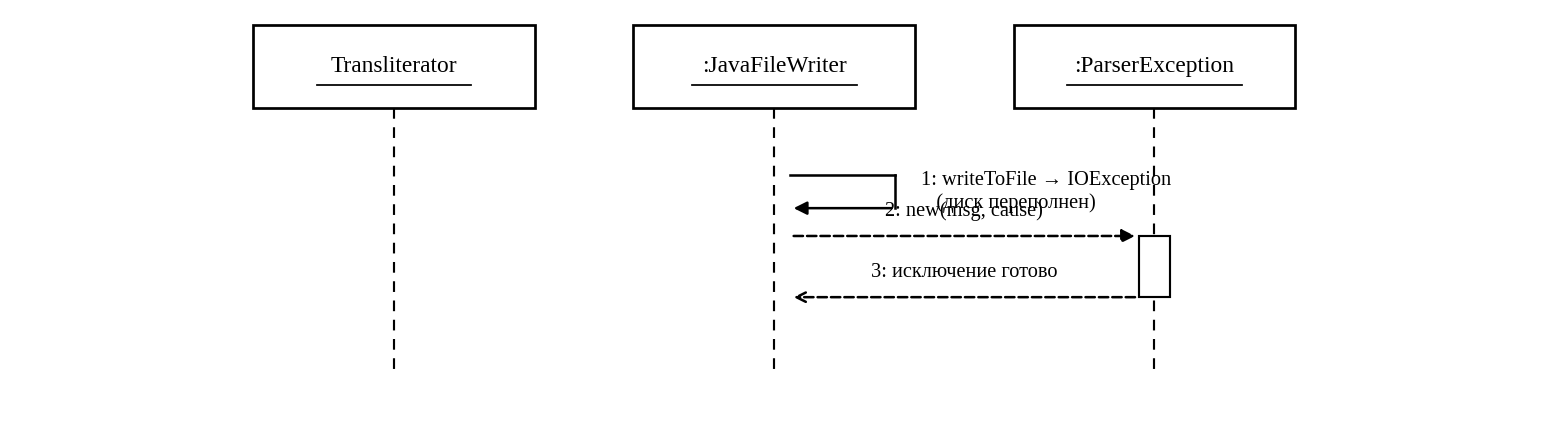
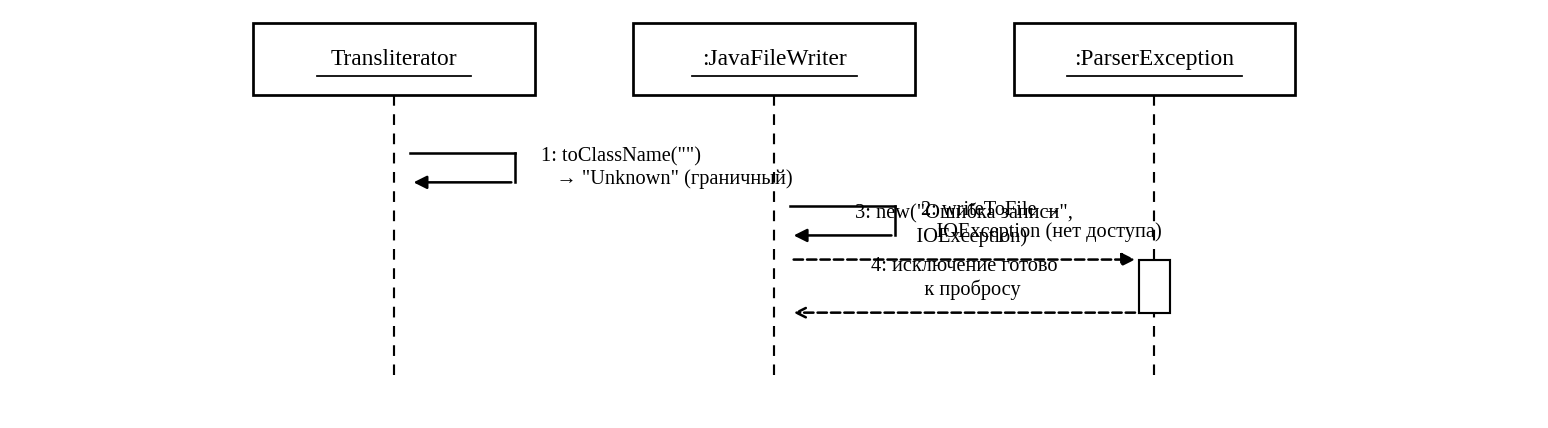
common ДПС: переделаны под реальный API классов
Три сценария используют только Transliterator, JavaFileWriter,
ParserException — без внешних классов из других пакетов.

Соответствие коду:
  • Нормальный — toClassName → writeLine + openBlock + closeBlock
    → writeToFile (Files.createDirectories + write)
  • Прерывание пользователем — Cancel между файлами:
    StringBuilder отбрасывается, writeToFile не вызывается
  • Системное прерывание — IOException в writeToFile →
    new ParserException(msg, cause) → return

Стиль ч/б как у остальных ДПС, шрифт Liberation Serif.

https://claude.ai/code/session_01WPz1fK92QEsvtXEfVLPRQp

diff --git a/diagrams/gen_seq.py b/diagrams/gen_seq.py
@@ -383,23 +383,35 @@ render("seq-data-system-interrupt.png", DATA_OBJ, [
 COMMON_OBJ = ["Transliterator", ":JavaFileWriter", ":ParserException"]
 
 print("Common:")
-# Только классы пакета common — взаимодействие через утилиту JavaFileWriter,
-# который использует Transliterator косвенно (через подаваемые строки)
+# Сценарии используют ТОЛЬКО три класса пакета common.
+# Соответствие коду:
+#   Transliterator — статический утилитный класс (toClassName/toMethodName/toFieldName)
+#   JavaFileWriter — копит исходник Java в StringBuilder (writeLine/openBlock/closeBlock),
+#                    пишет на диск через writeToFile (бросает IOException)
+#   ParserException — исключение-обёртка (message, cause)
+
+# НОРМАЛЬНЫЙ ход: транслитерация имени → построение Java-файла → запись на диск
 render("seq-common-normal.png", COMMON_OBJ, [
-    {"from": "Transliterator", "to": ":JavaFileWriter", "label": "1: имя класса для writeLine", "kind": "async"},
-    {"from": ":JavaFileWriter", "to": ":JavaFileWriter", "label": "2: openBlock + writeLine\n   накопление StringBuilder", "kind": "self"},
-    {"from": ":JavaFileWriter", "to": ":JavaFileWriter", "label": "3: writeToFile → Files.write", "kind": "self"},
+    {"from": "Transliterator", "to": "Transliterator", "label": "1: toClassName(\"Заявка\")\n   → \"Zayavka\"", "kind": "self"},
+    {"from": "Transliterator", "to": ":JavaFileWriter", "label": "2: имя класса передаётся\n   для openBlock", "kind": "async"},
+    {"from": ":JavaFileWriter", "to": ":JavaFileWriter", "label": "3: writeLine + openBlock\n   накопление StringBuilder", "kind": "self"},
+    {"from": ":JavaFileWriter", "to": ":JavaFileWriter", "label": "4: closeBlock\n   indentLevel--", "kind": "self"},
+    {"from": ":JavaFileWriter", "to": ":JavaFileWriter", "label": "5: writeToFile(dir, name.java)\n   Files.createDirectories + write", "kind": "self"},
 ])
 
+# ПРЕРЫВАНИЕ ПОЛЬЗОВАТЕЛЕМ: отмена между файлами — StringBuilder отбрасывается
 render("seq-common-user-interrupt.png", COMMON_OBJ, [
-    {"from": ":JavaFileWriter", "to": ":JavaFileWriter", "label": "1: writeLine [синхронно,\n   прерывание невозможно]", "kind": "self"},
-    {"from": ":JavaFileWriter", "to": ":JavaFileWriter", "label": "2: writeToFile завершается\n   до конца файла", "kind": "self"},
+    {"from": "Transliterator", "to": "Transliterator", "label": "1: toClassName(\"Документ\")\n   → \"Dokument\"", "kind": "self"},
+    {"from": ":JavaFileWriter", "to": ":JavaFileWriter", "label": "2: writeLine + openBlock\n   накопление в StringBuilder", "kind": "self"},
+    {"from": ":JavaFileWriter", "to": ":JavaFileWriter", "label": "3: writeToFile НЕ вызывается\n   (Cancel от пользователя),\n   StringBuilder отбрасывается", "kind": "self"},
 ])
 
+# СИСТЕМНОЕ ПРЕРЫВАНИЕ: IOException при writeToFile → обёртка в ParserException
 render("seq-common-system-interrupt.png", COMMON_OBJ, [
-    {"from": ":JavaFileWriter", "to": ":JavaFileWriter", "label": "1: writeToFile → IOException\n   (диск переполнен)", "kind": "self"},
-    {"from": ":JavaFileWriter", "to": ":ParserException", "label": "2: new(msg, cause)", "kind": "create"},
-    {"from": ":ParserException", "to": ":JavaFileWriter", "label": "3: исключение готово", "kind": "return"},
+    {"from": "Transliterator", "to": "Transliterator", "label": "1: toClassName(\"\")\n   → \"Unknown\" (граничный)", "kind": "self"},
+    {"from": ":JavaFileWriter", "to": ":JavaFileWriter", "label": "2: writeToFile →\n   IOException (нет доступа)", "kind": "self"},
+    {"from": ":JavaFileWriter", "to": ":ParserException", "label": "3: new(\"Ошибка записи\",\n   IOException)", "kind": "create"},
+    {"from": ":ParserException", "to": ":JavaFileWriter", "label": "4: исключение готово\n   к пробросу", "kind": "return"},
 ])
 
 print("\nГотово.")
